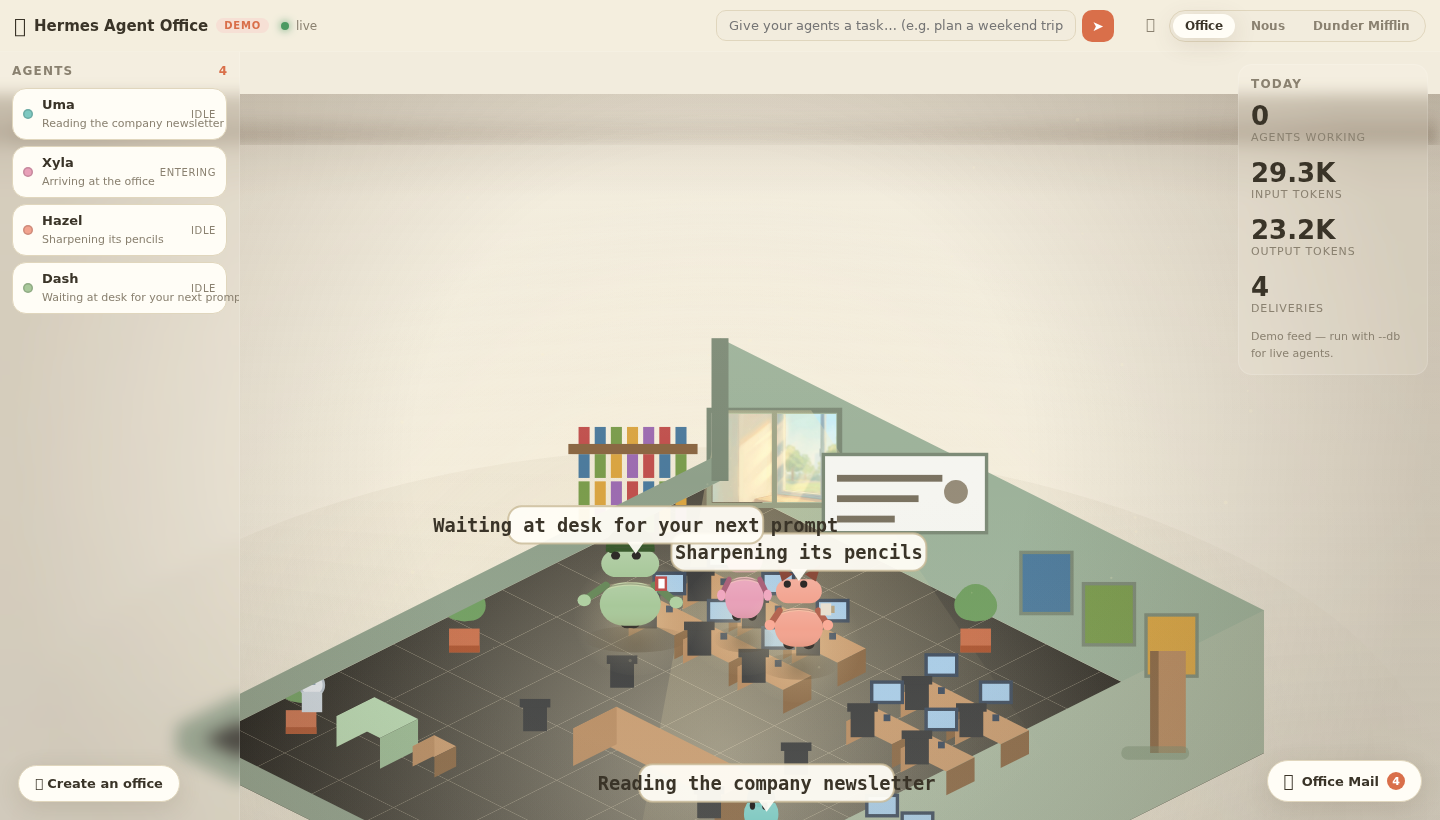
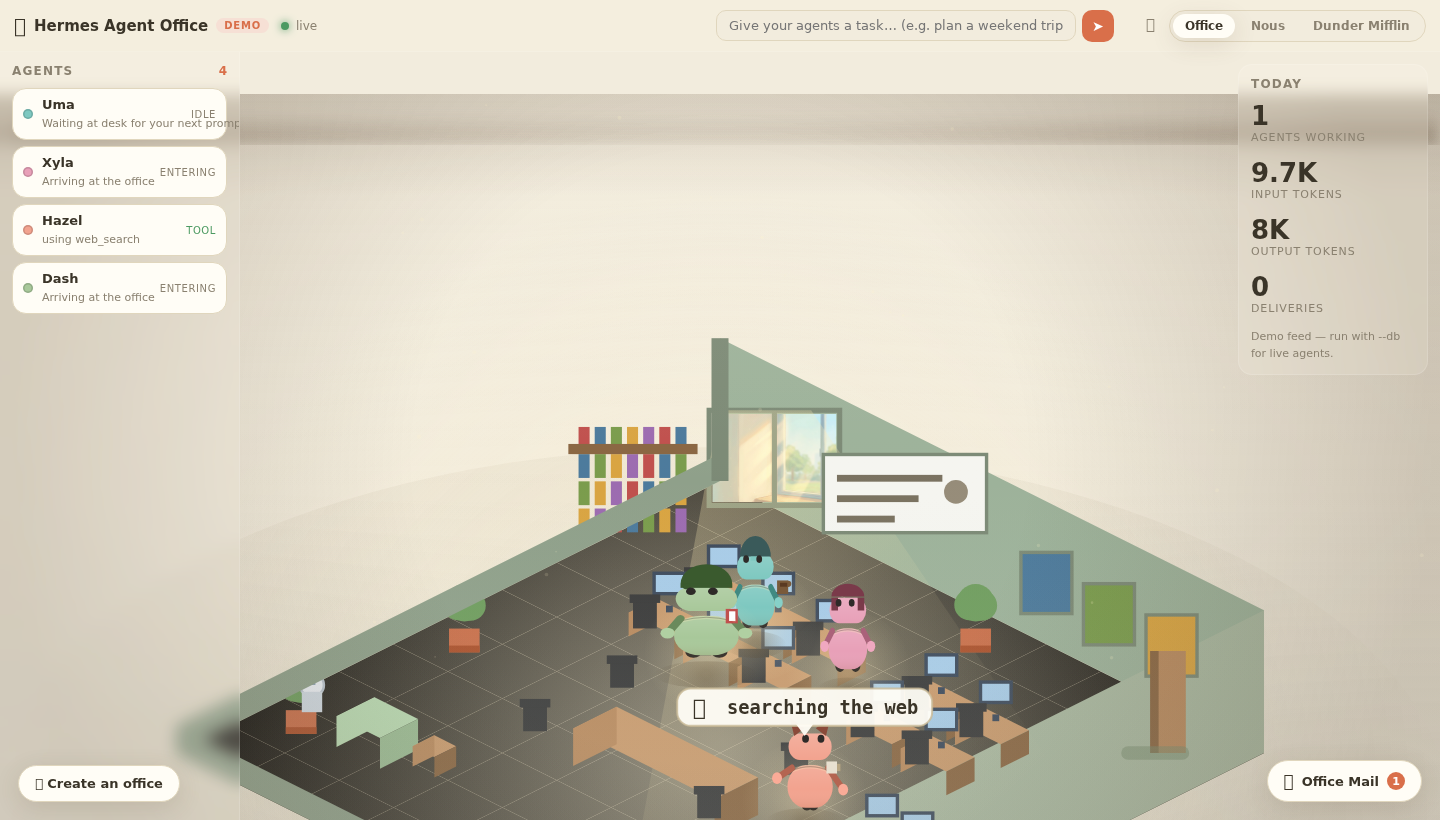
fix: agent spawn stagger + idle collision resolution + per-desk offsets (no clustering in screenshots), settled showcase screenshots, CI installs pytest, Pages enabled

diff --git a/web/engine.js b/web/engine.js
@@ -146,11 +146,25 @@ class OfficeEngine {
     // idle agents drift back to their home station (no clustering)
     for (const a of this.agents.values()) {
       if ((a.status === 'idle' || a.status === 'entering') && a.home && !a.moving && !a.leaving) {
-        const dx = a.home.x - a.x, dy = a.home.y - a.y;
-        if (Math.hypot(dx, dy) > 0.8) {
+        const hx = a.home.x + (a.homeOffset || 0), hy = a.home.y;
+        const dx = hx - a.x, dy = hy - a.y;
+        if (Math.hypot(dx, dy) > 0.6) {
           a.moving = true;
-          a.tx = a.home.x; a.ty = a.home.y;
+          a.tx = hx; a.ty = hy;
           a.walkPhase = a.walkPhase || Math.random() * 10;
+        }
+      }
+      // nudge overlapping idle agents apart (cheap collision resolution)
+      if (a.status === 'idle' && !a.moving) {
+        for (const b of this.agents.values()) {
+          if (b === a || b.moving || b.status !== 'idle') continue;
+          const dx = a.x - b.x, dy = a.y - b.y;
+          const d = Math.hypot(dx, dy);
+          if (d > 0.01 && d < 0.55) {
+            const push = (0.55 - d) / 2;
+            a.x += (dx / d) * push;
+            a.y += (dy / d) * push;
+          }
         }
       }
     }
@@ -177,10 +191,12 @@ class OfficeEngine {
     const [hx, hy] = desks.length ? desks[deskIdx] : [ent.x, ent.y];
     const ca = {
       ...a,
-      x: ent.x, y: ent.y,
+      x: ent.x + (deskIdx % 3) * 0.7, y: ent.y + (deskIdx % 2) * 0.5,
       tx: ent.x, ty: ent.y,
       home: { x: hx, y: hy + 0.55 },
       slot: deskIdx % 4,
+      // micro-offset so agents on adjacent desks never overlap
+      homeOffset: ((deskIdx * 0.7) % 2) - 0.5,
       moving: false,
       walkPhase: Math.random() * 10,
       facing: 1,
